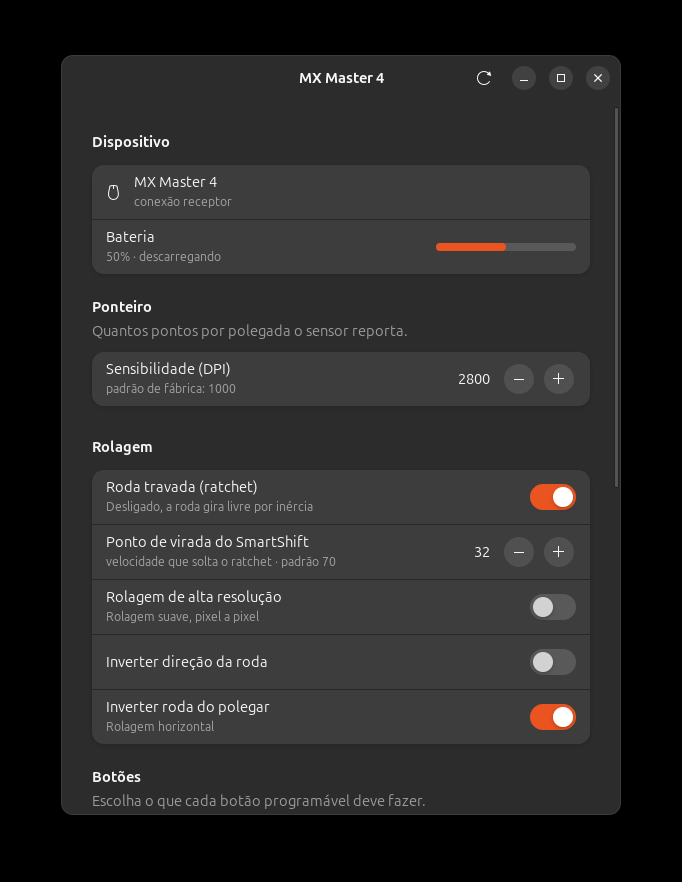
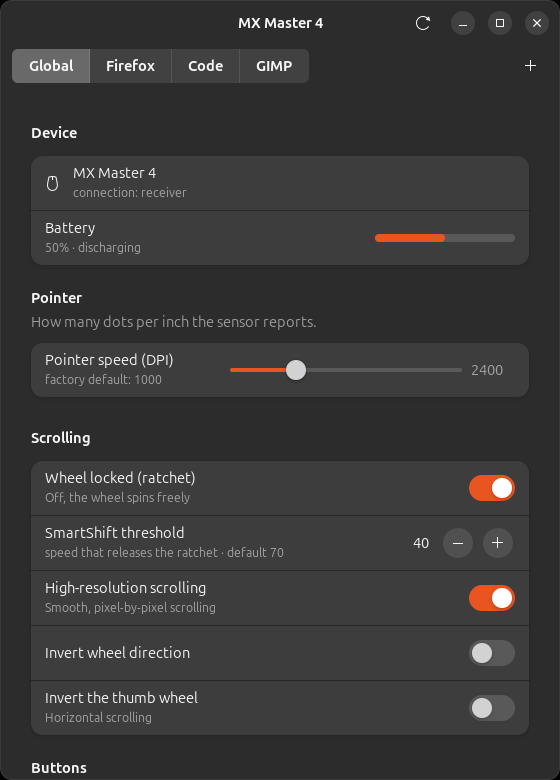
docs: bring both READMEs up to date, with fresh screenshots
The English README still told people to click a button on a picture of the
mouse, which no longer exists, and said pointer and scrolling changes apply as
you move the slider — the opposite of how they now work, and the reason they
used not to survive a window switch.

The Portuguese one was further behind: it described the interface as applying
controls straight to the mouse, listed a roadmap with items long since shipped,
was missing half the CLI commands, and never gained the Translating and Credits
sections the English one picked up when English became the source language.

Both now say the same thing about how settings are stored, that the thumb wheel
takes any action in the catalogue, and that the application field lists what is
installed rather than expecting you to know a desktop id. The roadmap in both
points at the issues that are actually open.

Screenshots are retaken against the current window: an overview with the
pointer slider and profile tabs, the button list, the button editor with
gestures, and the gesture and thumb-wheel settings. They come from a throwaway
configuration with generic profiles rather than from anyone's own setup.

diff --git a/README.pt-BR.md b/README.pt-BR.md
@@ -55,8 +55,8 @@ firmware `RBM 27.03.B0019`) por receptor Bolt, Ubuntu 24.04.4, GNOME 46, X11.
 | ✅ | Remapeamento e desvio de botões | `0x1B04` |
 | ✅ | Easy-Switch entre três computadores | `0x1814` `0x1815` |
 | ✅ | **Feedback háptico — 15 padrões** | `0x19B0` |
-| ✅ | **Roda do polegar como alternador de aplicativos** | `0x2150` |
-| ✅ | Perfis por aplicação, com interface (X11) | — |
+| ✅ | **Roda do polegar com qualquer ação, ou o alternador** | `0x2150` |
+| ✅ | Perfis por aplicação, ponteiro e rolagem inclusos (X11) | — |
 | ✅ | **53 ações para atribuir a botões** | — |
 | ✅ | Gestos num botão segurado (opcional) | `0x1B04` |
 | ✅ | Calar o motor háptico com bateria baixa | `0x1004` |
@@ -174,7 +174,19 @@ que explique por quê. É a mesma armadilha que o Solaar deixa, descrita nas
 Há três formas de usar, e todas compartilham os mesmos ajustes.
 
 **O aplicativo.** Procure por *Logi Tune Linux* no menu de aplicativos, ou rode
-`logitune-gui`. Os controles são aplicados no mouse conforme você os move.
+`logitune-gui`. Escolha um botão na lista para definir o que ele faz, acrescente
+um perfil por aplicativo e ajuste os tempos dos gestos e da roda do polegar.
+
+Tudo que você muda é gravado na configuração e o daemon aplica sem reiniciar —
+inclusive a velocidade do ponteiro e as chaves de rolagem, que é o que as faz
+valer por perfil. Escrever direto no mouse não bastaria: o daemon reaplica o
+perfil a cada troca de janela, então um ajuste que só existisse no aparelho
+duraria até o próximo aplicativo ganhar o foco.
+
+<p align="center">
+  <img src="docs/screenshot-buttons.png" alt="A lista de botões programáveis" width="380">
+  <img src="docs/screenshot-button-editor.png" alt="Editando o que um botão faz" width="380">
+</p>
 
 **O daemon**, em segundo plano, reconfigurando o mouse conforme o aplicativo em
 foco. Veja [abaixo](#perfis-por-aplicação).
@@ -192,7 +204,12 @@ logitune button voltar --remap 0x0052
 logitune hosts                # computadores pareados
 logitune host 2               # move o mouse para o canal 2
 logitune haptic 3             # toca um padrão de vibração
-logitune doctor               # verifica permissões e dependências
+logitune actions              # o catálogo que um botão pode receber
+logitune actions --run media.play_pause   # experimenta uma
+logitune watch --raw-xy       # mede movimento, para calibrar gestos
+logitune watch --thumb        # observa a roda do polegar reportando giro
+logitune scroll --no-thumb-divert         # devolve a rolagem horizontal
+logitune doctor               # verifica permissões, dependências e o mouse
 logitune-gui                  # interface gráfica
 ```
 
@@ -238,16 +255,20 @@ polling e sem consumo de CPU em repouso.
 
 `logitune actions` lista tudo que um botão pode fazer, agrupado como o Logi
 Options+ agrupa, com uma marca no que estiver indisponível na sua sessão e o
-motivo. Na janela, clique num botão do desenho do mouse. No arquivo, atribua
-pelo id:
+motivo. Na janela, escolha um botão na lista. No arquivo, atribua pelo id:
 
 ```json
 "bindings": {
   "0x0053": "browser.back",
   "0x0056": { "action": "key.shortcut", "keys": "ctrl+shift+t" },
-  "0x00C4": { "action": "app.launch", "app": "org.gnome.Calculator" }
+  "0x00C4": { "action": "app.launch", "app": "org.gnome.Calculator.desktop" }
 }
 ```
+
+O aplicativo grava o id do `.desktop` por você — o campo abre a lista dos
+aplicativos instalados em vez de exigir que você saiba um. Escrito à mão, ele
+também aceita o nome do comando (`gnome-calculator`) ou o nome visível
+(`Calculadora`).
 
 Cada ação passa pelo backend que lhe cabe, e a diferença importa:
 
@@ -307,11 +328,15 @@ Ajuste em *Gestos*, no aplicativo, ou no arquivo:
 
 Meça os seus com `logitune watch <cid> --raw-xy`.
 
+<p align="center">
+  <img src="docs/screenshot-gestures.png" alt="Limiares dos gestos e a roda do polegar" width="420">
+</p>
+
 ### A roda do polegar
 
 Girá-la pode alternar aplicativos em vez de rolar para os lados — o recurso que
-o Logi Options+ chama de App Switcher. Escolha em *Roda do polegar*, no
-aplicativo, ou:
+o Logi Options+ chama de App Switcher — ou disparar qualquer ação do catálogo,
+uma por sentido de giro. Escolha em *Roda do polegar*, no aplicativo, ou:
 
 ```json
 "default": { "thumbwheel": "window.switch_apps" },
@@ -399,12 +424,25 @@ logitune watch       # desvia botões e mostra os eventos que eles emitem
 
 ## Roadmap
 
-- [ ] Menu radial do Actions Ring via extensão do GNOME Shell
-- [ ] Perfis por aplicação no Wayland (a mesma extensão resolve os dois)
-- [ ] Decifrar `0x19C0`
-- [ ] Interface em inglês
-- [ ] Pacotes Flatpak e `.deb`
-- [ ] Suporte além do MX Master 4 — a pilha é HID++ 2.0 genérica, falta testar
+Acompanhado como [issues](https://github.com/renangraciano/logi-tune-linux/issues).
+
+**A seguir**
+
+- [#13](https://github.com/renangraciano/logi-tune-linux/issues/13) Pacotes
+  `.deb` e Flatpak, para instalar não exigir clonar um repositório
+
+**Arriscado, ou pesquisa de resultado incerto**
+
+- [#14](https://github.com/renangraciano/logi-tune-linux/issues/14) Rolagem
+  estendida — o item mais arriscado; desviar a roda pode deixar um mouse que
+  não rola
+- [#15](https://github.com/renangraciano/logi-tune-linux/issues/15) Menu radial
+  do Actions Ring via extensão do GNOME Shell, que também resolve os perfis por
+  aplicação no Wayland
+- [#16](https://github.com/renangraciano/logi-tune-linux/issues/16) Decifrar a
+  intensidade háptica e o `0x19C0` — pode não estar exposto
+- [#17](https://github.com/renangraciano/logi-tune-linux/issues/17) Testar em
+  mouses além do MX Master 4 — a pilha é HID++ 2.0 genérica, falta hardware
 
 ## Limitações conhecidas
 
@@ -418,11 +456,42 @@ logitune watch       # desvia botões e mostra os eventos que eles emitem
   rápida.
 - Testado apenas com o MX Master 4 por receptor Bolt.
 
+## Traduzindo
+
+O idioma de origem é o inglês; o resto são catálogos `gettext`, o português
+brasileiro inclusive — ele era o original e virou tradução para que chegar pelo
+README não signifique encontrar um idioma que você talvez não leia.
+
+```bash
+sudo apt install gettext
+scripts/build-translations.sh          # compila os catálogos
+LOGITUNE_LANG=pt_BR logitune-gui       # experimenta sem mudar a sessão
+```
+
+Para começar um idioma novo, copie `po/logi-tune-linux.pot` para `po/<código>.po`,
+preencha as linhas `msgstr` e rode o script de build. Depois de mexer em
+qualquer texto traduzível do código, rode `scripts/update-translations.sh` — a
+suíte de testes reprova quando o catálogo fica para trás, que é o que impede
+uma mensagem de aparecer sem tradução numa janela traduzida.
+
+A instalação compila os catálogos sozinha. Sem o `gettext` na máquina o build
+pula esse passo com um aviso e a interface fica em inglês, o que é um programa
+funcionando em vez de uma instalação quebrada.
+
 ## Contribuindo
 
 Relatos de dispositivo são a contribuição mais valiosa — `logitune features` e
 `logitune buttons` de um mouse que ainda não vimos descrevem toda a superfície
 HID++ dele. Veja o [CONTRIBUTING.md](CONTRIBUTING.md).
+
+## Créditos
+
+A engenharia reversa por trás do [Solaar](https://github.com/pwr-Solaar/Solaar)
+e a especificação pública do HID++ 2.0 da Logitech foram a base para entender o
+protocolo. Que o recurso `0x19B0` é o motor háptico foi identificado de forma
+independente por [ncr/mx-master-4-haptic](https://github.com/ncr/mx-master-4-haptic)
+e [talamar49/orbit-mouse](https://github.com/talamar49/orbit-mouse), e a
+sondagem daqui concorda com os dois.
 
 ## Licença
 

diff --git a/README.md b/README.md
@@ -56,8 +56,8 @@ GNOME 46, X11.
 | ✅ | Button remapping and diversion | `0x1B04` |
 | ✅ | Easy-Switch between three hosts | `0x1814` `0x1815` |
 | ✅ | **Haptic feedback — 15 waveforms** | `0x19B0` |
-| ✅ | **Thumb wheel as an application switcher** | `0x2150` |
-| ✅ | Per-application profiles, with a UI (X11) | — |
+| ✅ | **Thumb wheel bound to any action, or the app switcher** | `0x2150` |
+| ✅ | Per-application profiles, pointer and scrolling included (X11) | — |
 | ✅ | **53 actions to bind buttons to** | — |
 | ✅ | Gestures on a held button (opt-in) | `0x1B04` |
 | ✅ | Silence the haptic motor on low battery | `0x1004` |
@@ -174,11 +174,20 @@ leaves behind, described under [known limitations](#known-limitations).
 There are three ways in, and they share the same settings.
 
 **The app.** Search for *Logi Tune Linux* in your application menu, or run
-`logitune-gui`. Click a button on the picture of the mouse to choose what it
-does, add a profile per application, and set the gesture and thumb-wheel
-timings. Pointer and scrolling changes apply to the mouse as you move the
-slider; everything else is written to the configuration and picked up by the
-daemon without a restart.
+`logitune-gui`. Pick a button from the list to choose what it does, add a
+profile per application, and set the gesture and thumb-wheel timings.
+
+Everything you change is written to the configuration and picked up by the
+daemon without a restart — including the pointer speed and the scrolling
+switches, which is what makes them work per profile. Writing them straight to
+the mouse would not: the daemon re-applies the profile on every window switch,
+so a setting that lives only on the device lasts until the next application
+takes focus.
+
+<p align="center">
+  <img src="docs/screenshot-buttons.png" alt="The list of programmable buttons" width="380">
+  <img src="docs/screenshot-button-editor.png" alt="Editing what a button does" width="380">
+</p>
 
 **The daemon**, in the background, applying button actions, gestures and
 per-application profiles. Installed above; `systemctl --user status
@@ -266,9 +275,14 @@ and why. Bind by id, and pass parameters when an action needs them:
 "bindings": {
   "0x0053": "browser.back",
   "0x0056": { "action": "key.shortcut", "keys": "ctrl+shift+t" },
-  "0x00C4": { "action": "app.launch", "app": "org.gnome.Calculator" }
+  "0x00C4": { "action": "app.launch", "app": "org.gnome.Calculator.desktop" }
 }
 ```
+
+The app writes the desktop id for you — the parameter opens the list of
+installed applications rather than asking you to know one. Written by hand it
+also accepts the command name (`gnome-calculator`) or the visible name
+(`Calculator`).
 
 Each action runs through whichever backend fits it, and the difference matters:
 
@@ -346,10 +360,15 @@ register as holds:
 
 The app has these under *Gestures*, so the file is optional.
 
+<p align="center">
+  <img src="docs/screenshot-gestures.png" alt="Gesture thresholds and the thumb wheel" width="420">
+</p>
+
 ### The thumb wheel
 
 Rolling it can switch applications instead of scrolling sideways — the feature
-Logi Options+ calls App Switcher. Pick it under *Thumb wheel* in the app, or:
+Logi Options+ calls App Switcher — or fire any action in the catalogue, one per
+direction of travel. Pick it under *Thumb wheel* in the app, or:
 
 ```json
 "default": { "thumbwheel": "window.switch_apps" },
@@ -458,19 +477,10 @@ If you decode something, please [open an issue](https://github.com/renangraciano
 Tracked as [issues](https://github.com/renangraciano/logi-tune-linux/issues),
 roughly in the order they matter.
 
-**Before this can call itself 1.0**
+**Next**
 
-- [#8](https://github.com/renangraciano/logi-tune-linux/issues/8) Profile and
-  button-mapping UI, so the config file becomes optional
-- [#9](https://github.com/renangraciano/logi-tune-linux/issues/9) Translate the
-  command line — the window is done, the CLI is still Portuguese
-
-**Visible gaps against Logi Options+**
-
-- [#12](https://github.com/renangraciano/logi-tune-linux/issues/12) Turn
-  haptics off on low battery
 - [#13](https://github.com/renangraciano/logi-tune-linux/issues/13) `.deb` and
-  Flatpak packages
+  Flatpak packages, so installing does not mean cloning a repository
 
 **Risky, or research with an uncertain outcome**
 
